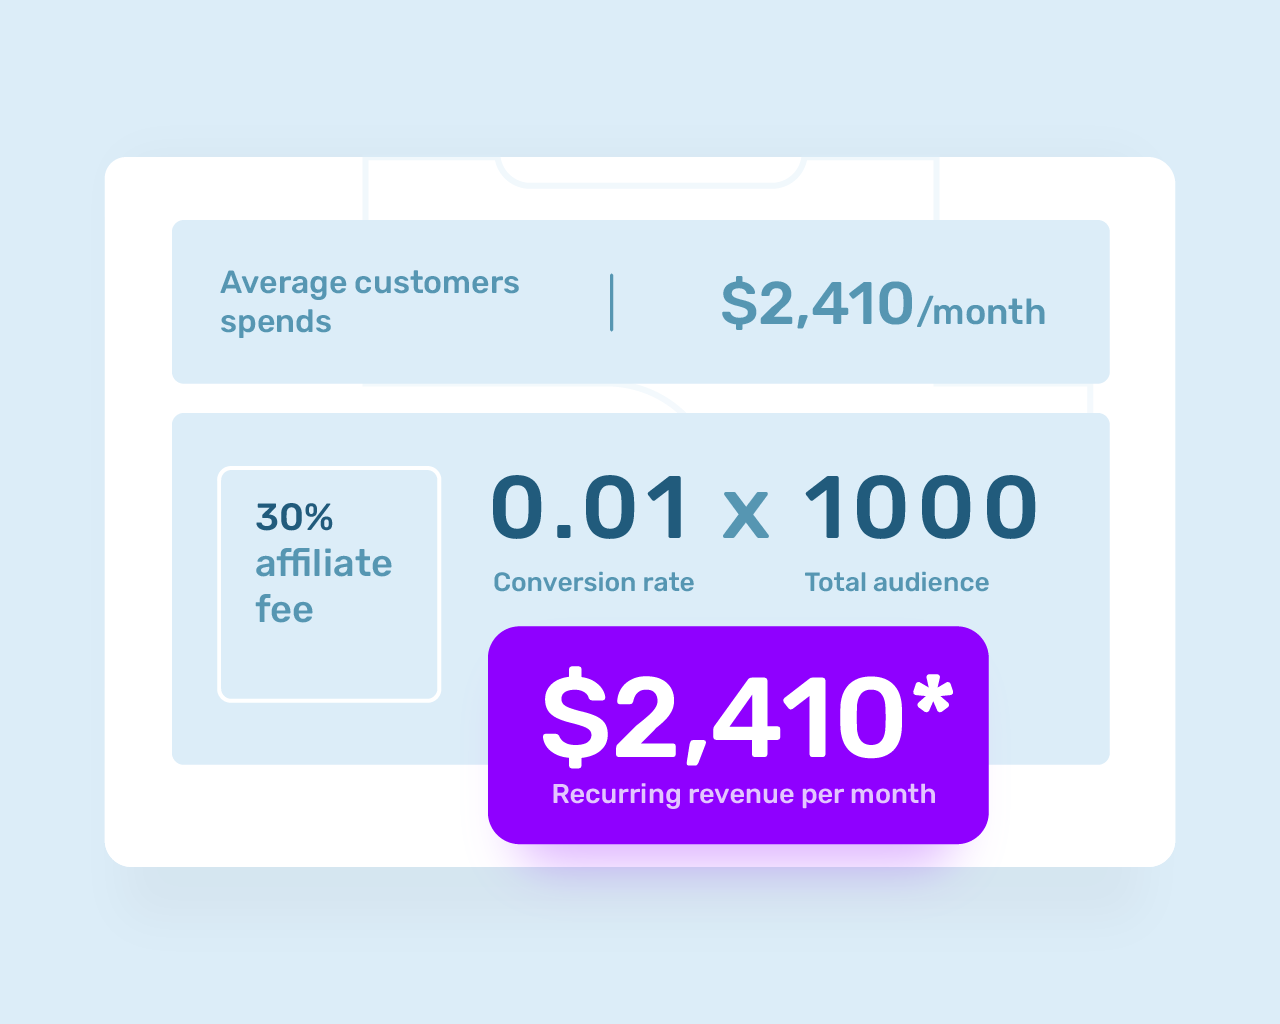
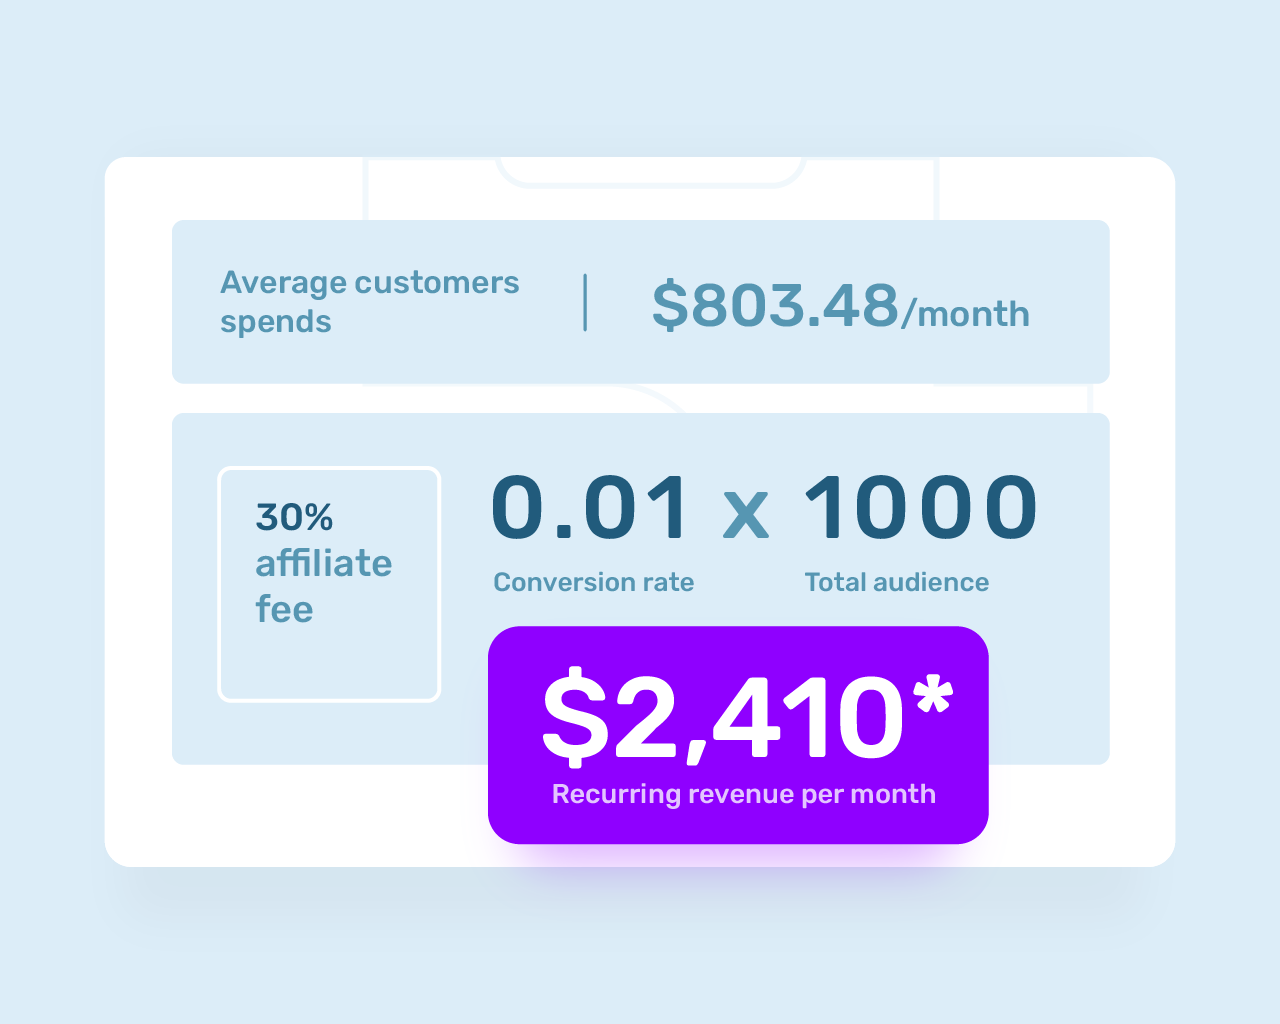
update

Changed region(s): [[0.5, 0.25, 0.8125, 0.3438]]

diff --git a/proxycurl-affiliate-30.html b/proxycurl-affiliate-30.html
@@ -318,7 +318,7 @@
           <!-- Text -->
           <p class="lead text-center text-lg-left text-muted">
             Build an income by promoting Proxycurl to fellow developers working in other companies. Our users spend an
-            average of $2,410 on Proxycurl per month.
+            average of $803.48 on Proxycurl per month.
           </p>
   
           <!-- Info-->
